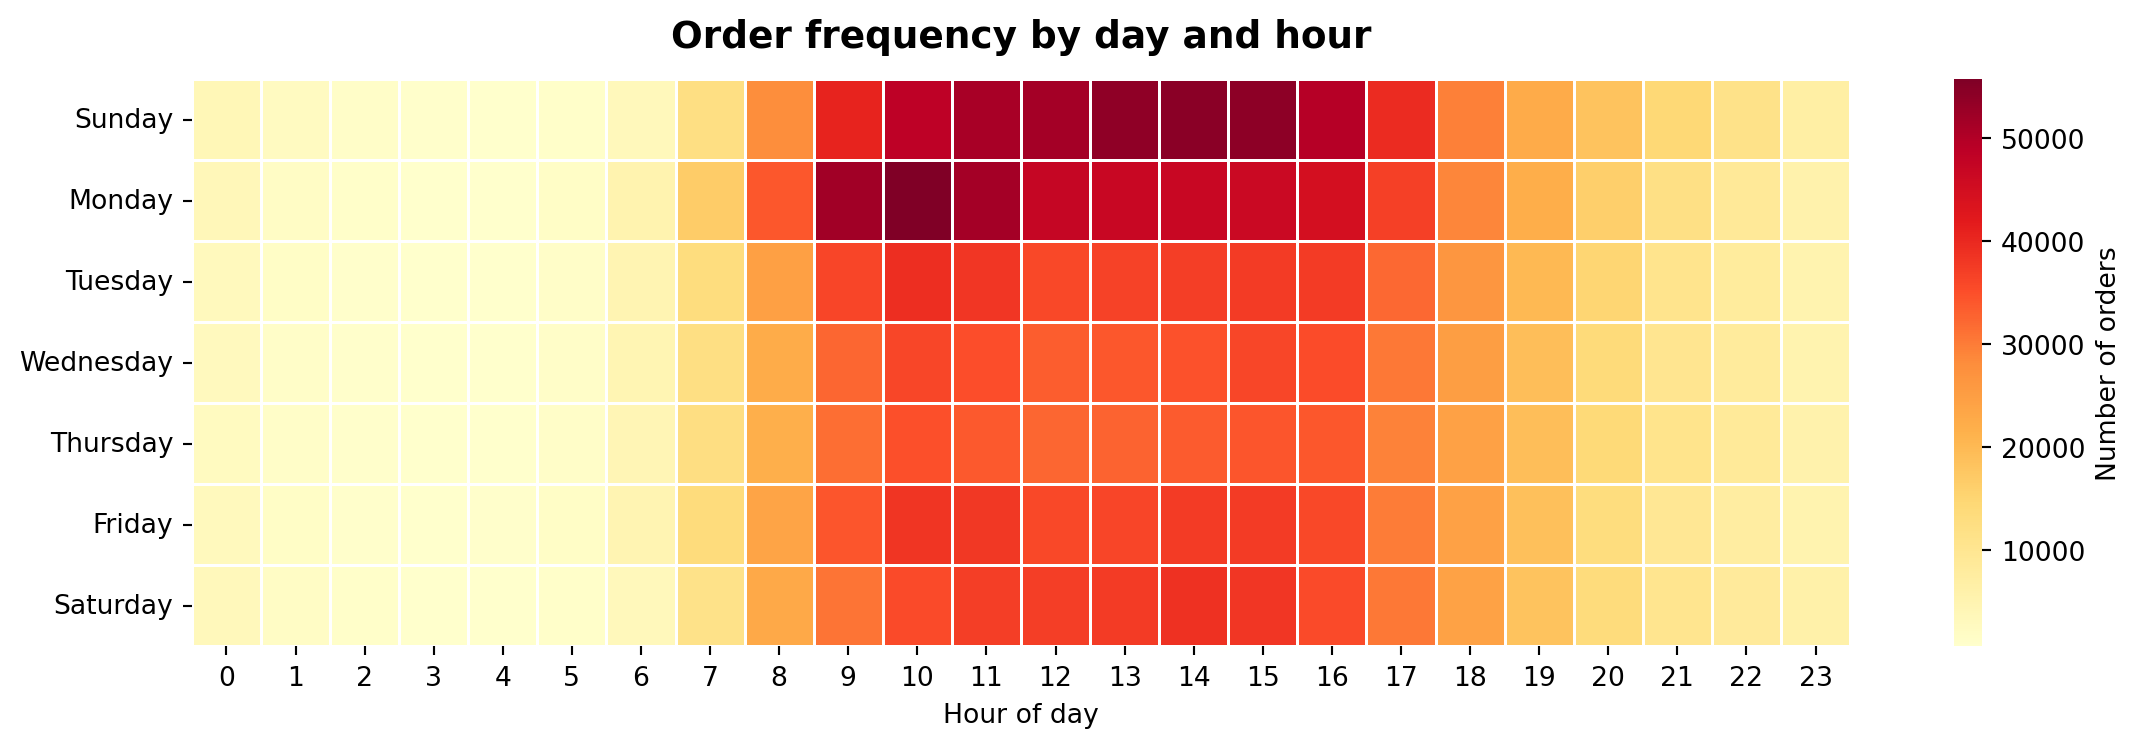
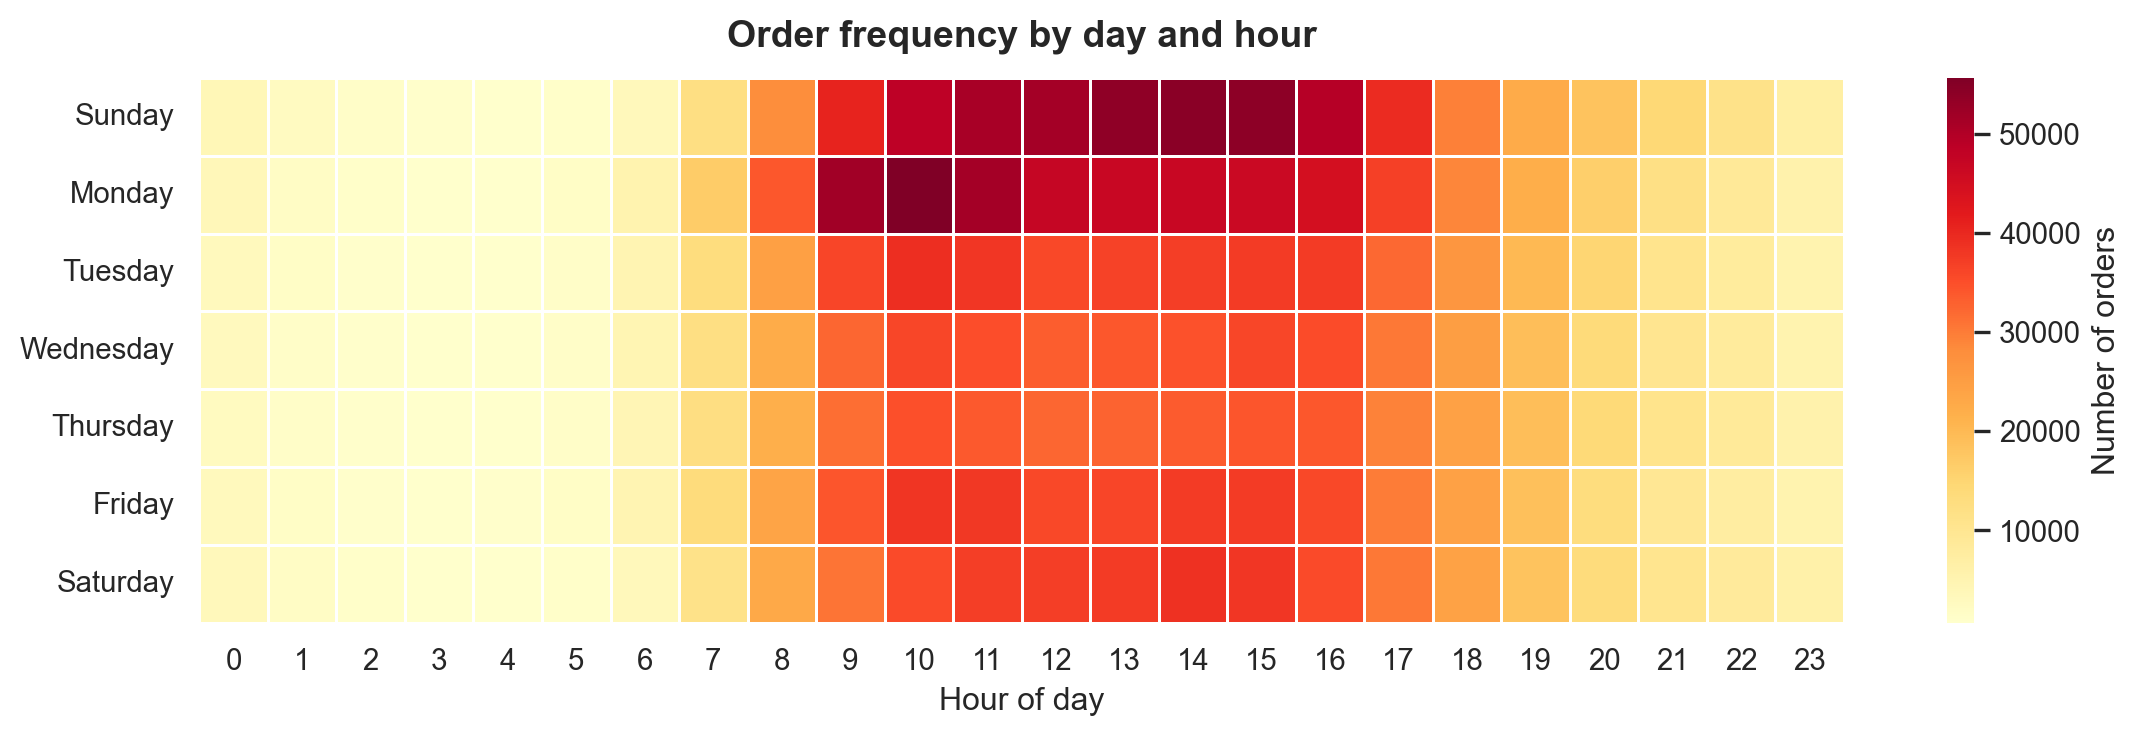
fixed typos

diff --git a/deployment/views/top_sellers.py b/deployment/views/top_sellers.py
@@ -10,7 +10,7 @@ def render():
     st.title("Top Products by Number of Purchases")
     st.markdown(
         "Shows the most frequently purchased individual products across all orders. "
-        "Filter by department to find the top sellers within a single category — "
+        "Filter by department to find the top sellers within a single category, "
         "useful for product managers focused on a specific assortment."
     )
 
@@ -94,7 +94,7 @@ def render():
             f"({top1['share_pct']:.2f}% of all) and a reorder rate of "
             f"**{top1['reorder_rate']:.0%}**, followed by {runners_up}. "
             f"Of the shown top {len(top_products)} products, "
-            f"**{dom_count}** come from the *{dom_dept}* department — "
+            f"**{dom_count}** come from the *{dom_dept}* department, "
             "fresh products clearly dominate the platform's top sellers."
         )
     else:
@@ -103,6 +103,6 @@ def render():
             f"**{top1['product_name']}** with {int(top1['count']):,} purchases "
             f"({top1['share_pct']:.2f}% of all platform purchases, "
             f"reorder rate **{top1['reorder_rate']:.0%}**). "
-            "Hover the bars for share-% and reorder-rate of each product — "
+            "Hover the bars for share-% and reorder-rate of each product, "
             "products with a high reorder rate are strong subscription candidates."
         )

diff --git a/deployment/views/department_sales.py b/deployment/views/department_sales.py
@@ -91,7 +91,7 @@ def _render_department_view(agg):
         f"**{int(top1['count']):,}** purchases ({top1['share_pct']:.1f}% of all), "
         f"followed by **{top2['department'].title()}** ({top2['share_pct']:.1f}%). "
         f"The highest reorder rate is in **{most_loyal['department']}** "
-        f"({most_loyal['reorder_rate']:.0%}) — its customers are the most habitual, "
+        f"({most_loyal['reorder_rate']:.0%}), its customers are the most habitual, "
         "regardless of total volume. Colour intensity in the chart encodes the "
         "reorder rate so loyalty leaders stand out from volume leaders."
     )
@@ -164,7 +164,7 @@ def _render_aisle_view(agg):
             f"({top_aisle['share_pct']:.2f}% of all) and a reorder rate of "
             f"**{top_aisle['reorder_rate']:.0%}**. "
             f"Highest reorder rate in this view: **{high_reord['aisle']}** "
-            f"({high_reord['reorder_rate']:.0%}) — strongest loyalty signal."
+            f"({high_reord['reorder_rate']:.0%}),s strongest loyalty signal."
         )
     else:
         st.info(